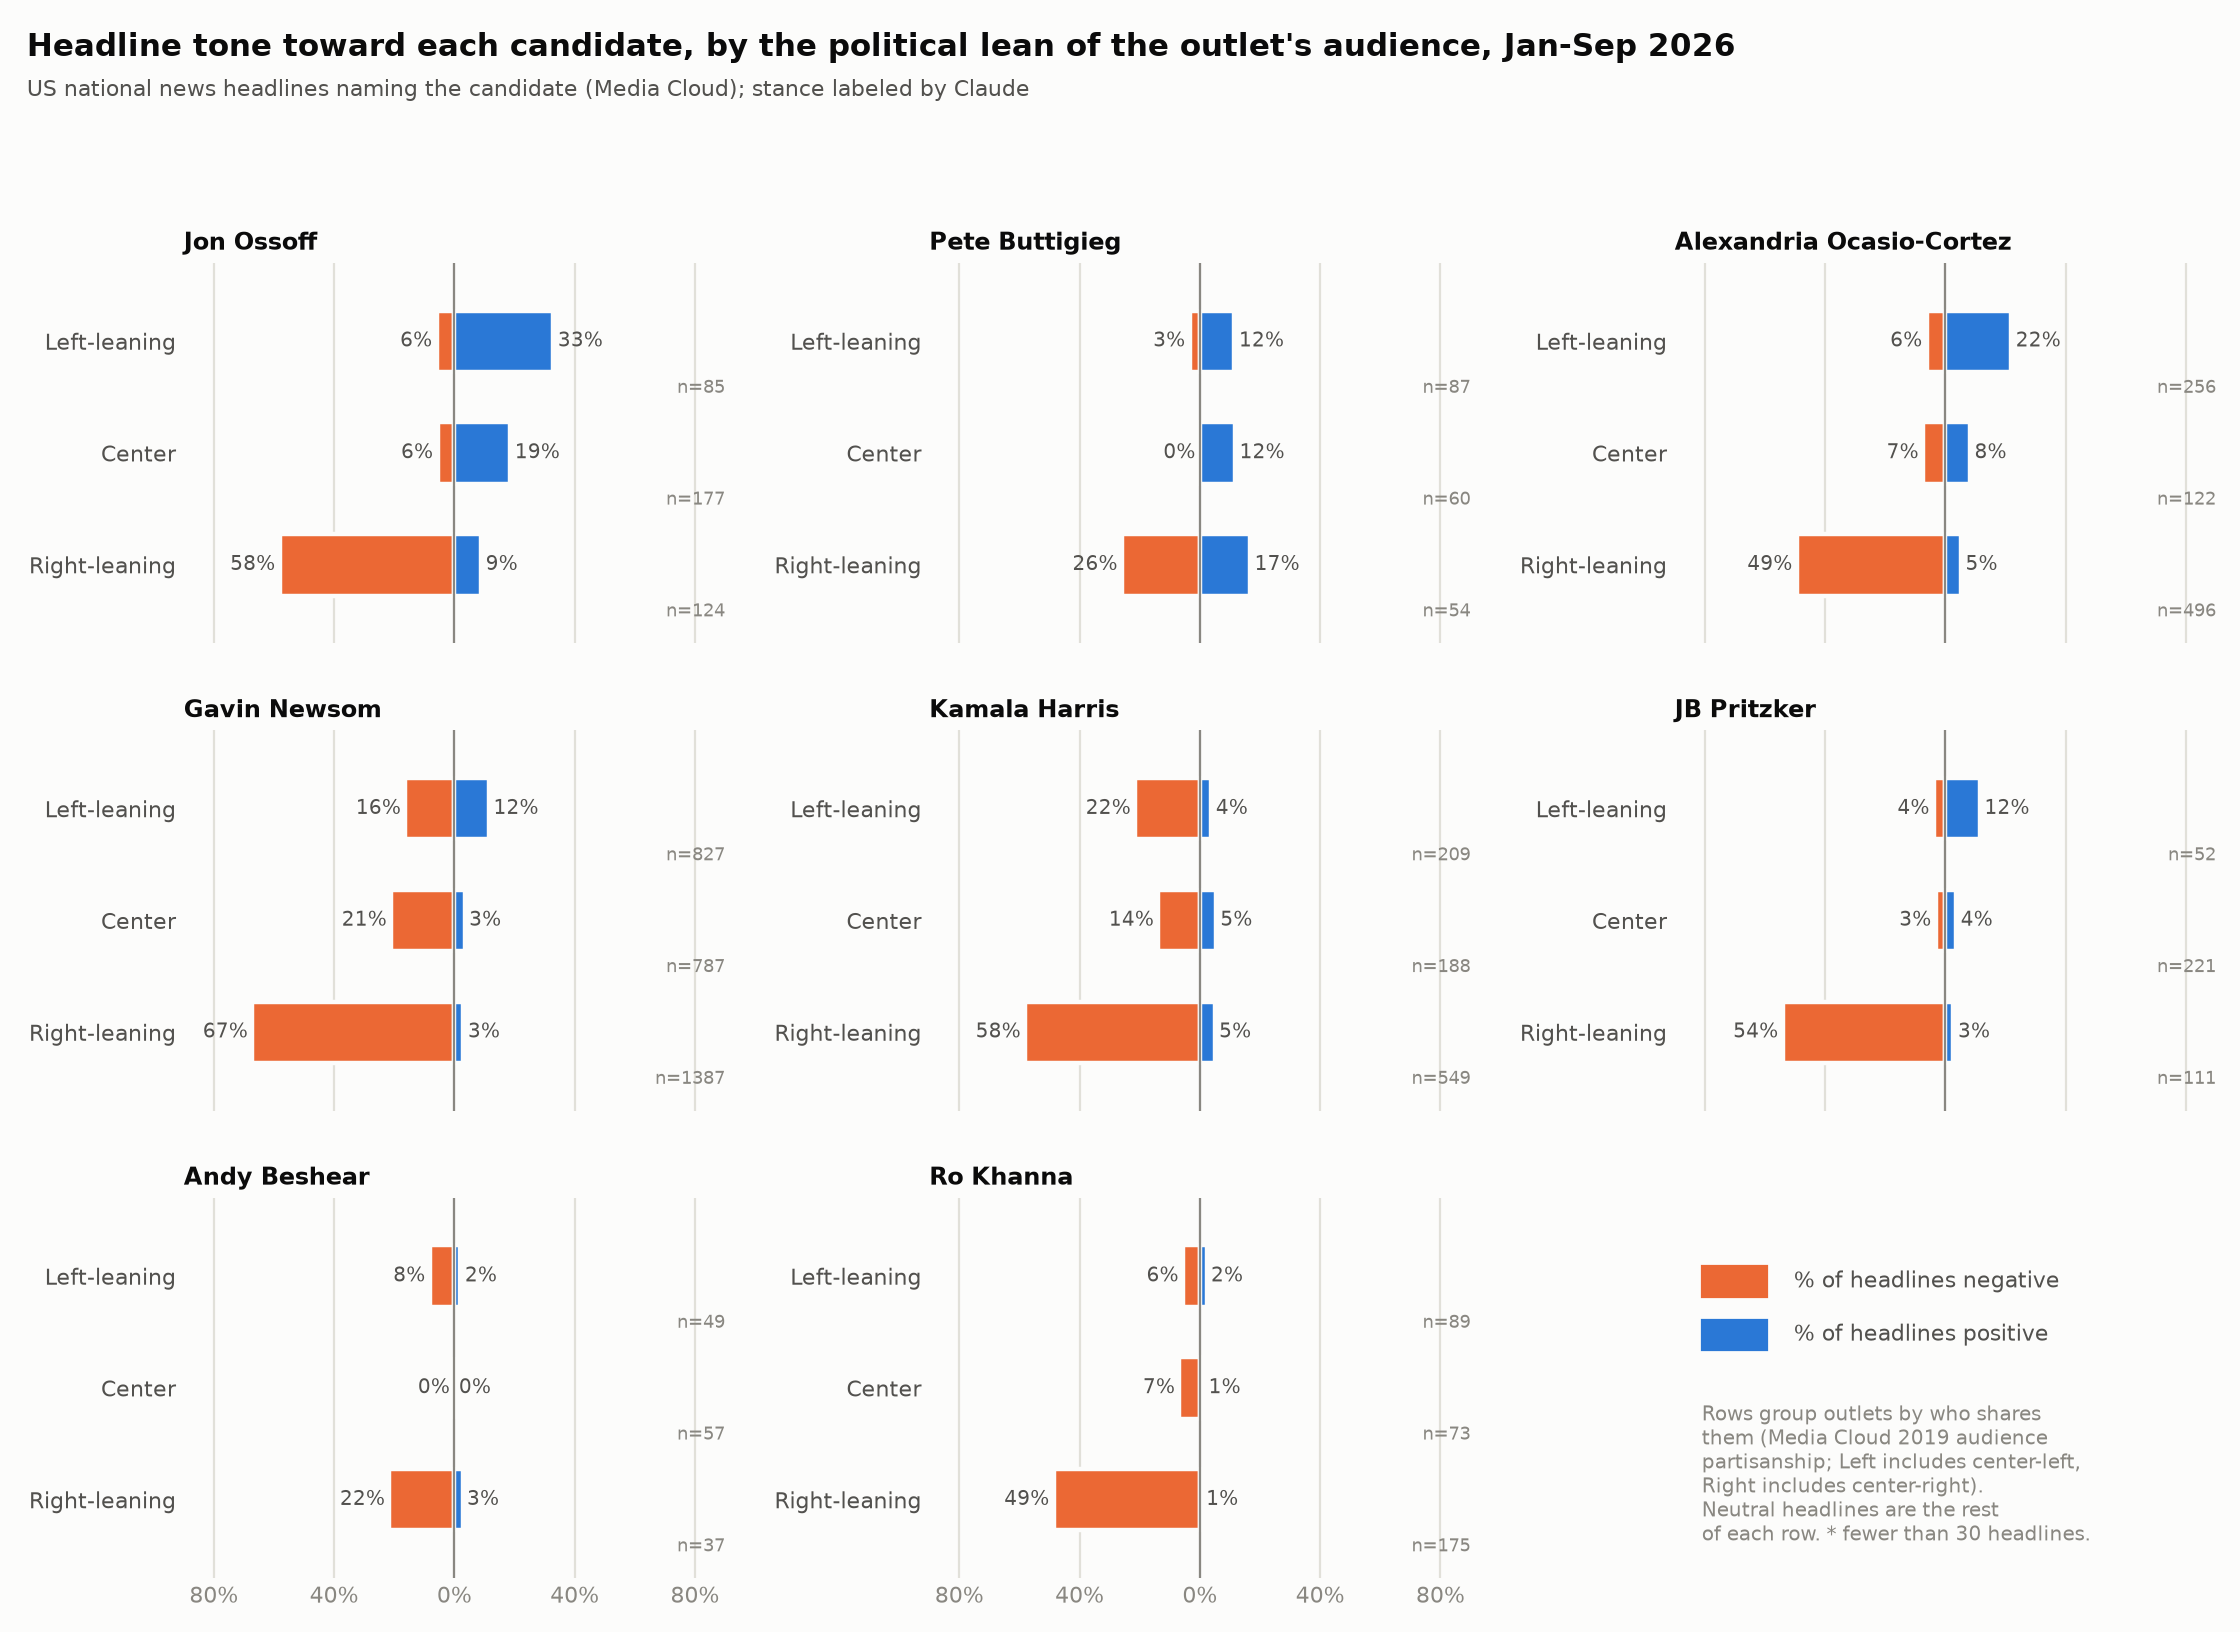
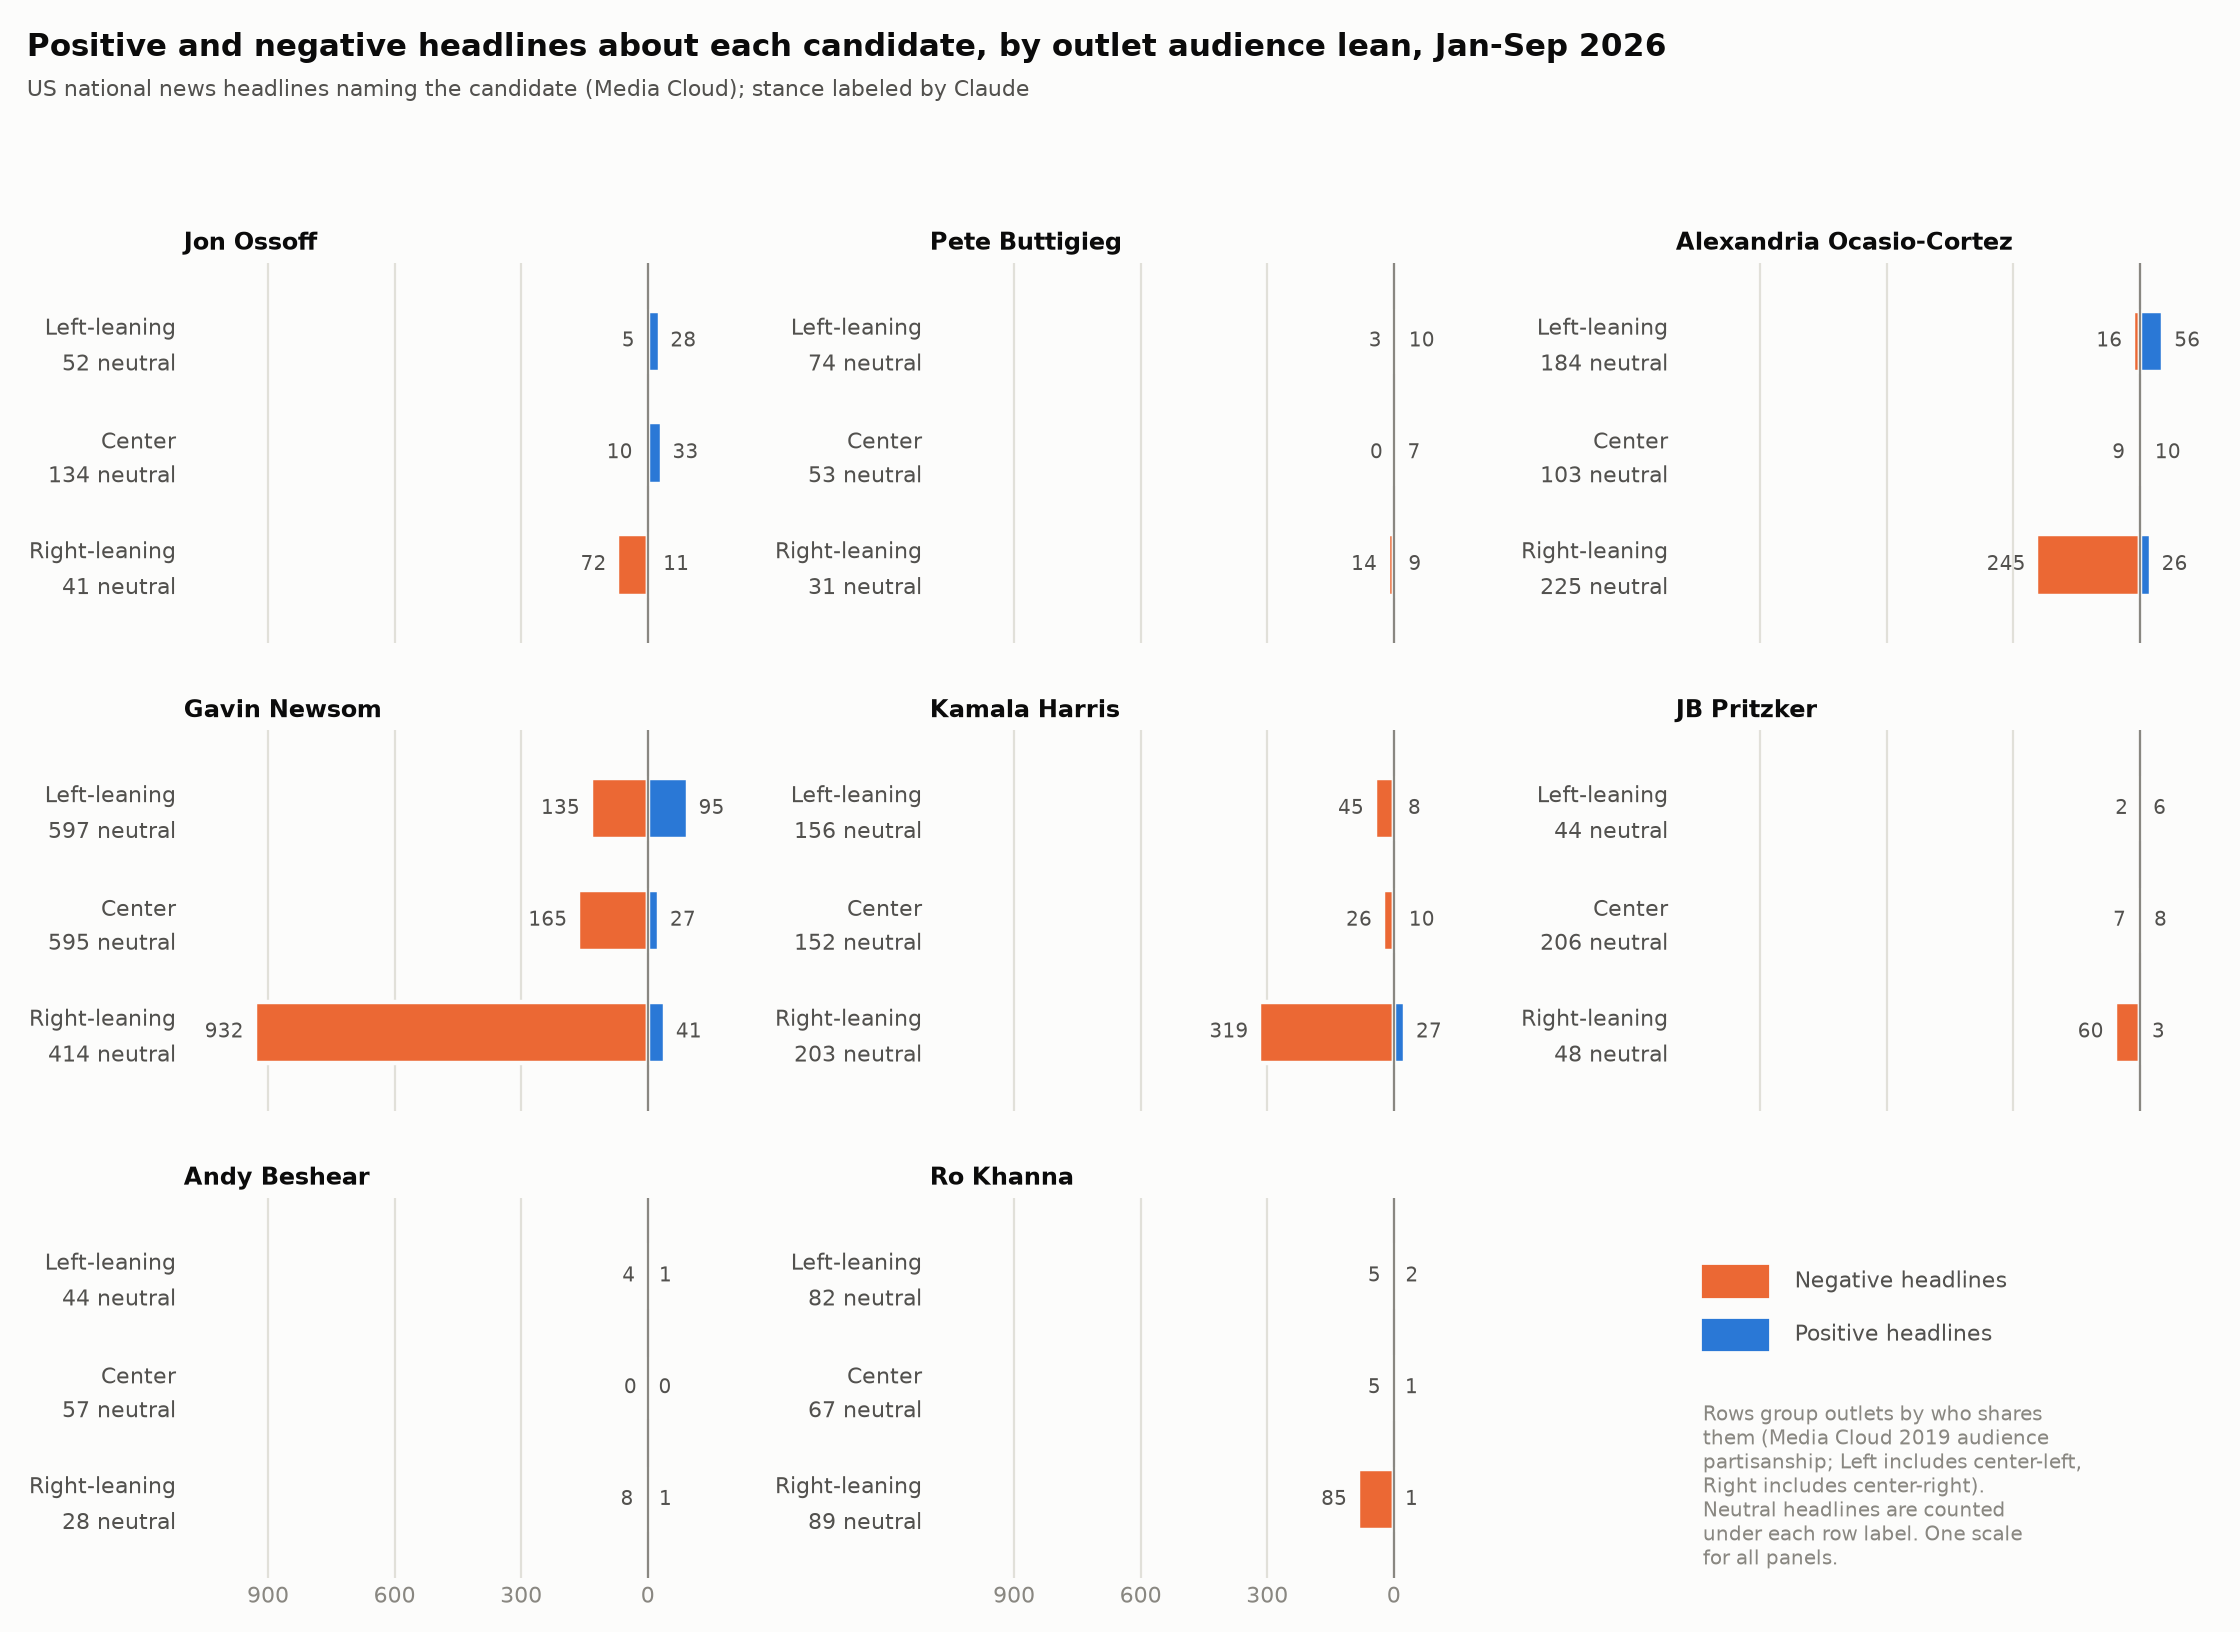
Show headline counts instead of percentages in the by-lean chart
Bars are positive and negative headline counts on one shared,
asymmetric scale; neutral counts sit under each row label.

Claude-Session: https://claude.ai/code/session_019hpmnRh6Ny9Qtcw3yeXWmH

diff --git a/reddit2028Sentiment/mediacloud_sentiment.py b/reddit2028Sentiment/mediacloud_sentiment.py
@@ -278,9 +278,13 @@ def plot_by_lean(rows):
     names = [n for n in QUERIES if any((n, g) in by for g in groups)]
     names.sort(key=lambda n: -sum(by[(n, g)]["positive"] for g in groups if (n, g) in by)
                / sum(by[(n, g)]["headlines"] for g in groups if (n, g) in by))
-    lim = max(max(r["pct_negative"], r["pct_positive"]) for r in rows)
-    lim = -(-lim // 10) * 10 + 20  # room for the value labels at the bar ends
-    step = 40 if lim > 60 else 20
+    # One shared count scale so bar lengths compare across candidates; every bar is labelled.
+    from matplotlib.ticker import MaxNLocator
+    # Asymmetric limits (negative bars run far longer) but one unit scale for both sides and all panels.
+    left = max(r["negative"] for r in rows) * 1.18
+    right = max(r["positive"] for r in rows) * 1.9
+    lim = left + right
+    ticks = [t for t in MaxNLocator(nbins=5, integer=True).tick_values(-left, right) if -left <= t <= right]
 
     plt.rcParams.update({"font.family": "DejaVu Sans", "font.size": 10})
     nrows, ncols = grid_for(len(names))
@@ -290,12 +294,11 @@ def plot_by_lean(rows):
         for side in ("top", "right", "left", "bottom"):
             ax.spines[side].set_visible(False)
         ax.tick_params(colors=muted, length=0)
-        ax.set_xlim(-lim, lim)
+        ax.set_xlim(-left, right)
         ax.grid(axis="x", color=grid, linewidth=1)
         ax.set_axisbelow(True)
-        ticks = [t for t in range(-step * int(lim // step), int(lim) + 1, step)]
         ax.set_xticks(ticks)
-        ax.set_xticklabels([f"{abs(t)}%" for t in ticks])
+        ax.set_xticklabels([f"{abs(int(t)):,}" for t in ticks])
 
     for ax, name in zip(axes.flat, names):
         ax.axvline(0, color=muted, linewidth=1)
@@ -304,15 +307,15 @@ def plot_by_lean(rows):
             r = by.get((name, g))
             if not r:
                 continue
-            ax.barh(y, -r["pct_negative"], height=0.55, color=neg_c, edgecolor=surface, linewidth=2)
-            ax.barh(y, r["pct_positive"], height=0.55, color=pos_c, edgecolor=surface, linewidth=2)
-            ax.text(-r["pct_negative"] - 1.5, y, f"{r['pct_negative']:.0f}%", ha="right", va="center", color=ink2, fontsize=9)
-            ax.text(r["pct_positive"] + 1.5, y, f"{r['pct_positive']:.0f}%", ha="left", va="center", color=ink2, fontsize=9)
-            hollow = r["headlines"] < MIN_N
-            ax.text(lim, y - 0.42, f"n={r['headlines']}" + ("*" if hollow else ""), ha="right", va="center",
-                    color=muted, fontsize=8)
+            pad = lim * 0.02
+            ax.barh(y, -r["negative"], height=0.55, color=neg_c, edgecolor=surface, linewidth=2)
+            ax.barh(y, r["positive"], height=0.55, color=pos_c, edgecolor=surface, linewidth=2)
+            ax.text(-r["negative"] - pad, y, f"{r['negative']:,}", ha="right", va="center", color=ink2, fontsize=9)
+            ax.text(r["positive"] + pad, y, f"{r['positive']:,}", ha="left", va="center", color=ink2, fontsize=9)
         ax.set_yticks(ys)
-        ax.set_yticklabels([f"{g}-leaning" if g != "Center" else "Center" for g in groups], color=ink2)
+        ax.set_yticklabels([(f"{g}-leaning" if g != "Center" else "Center")
+                            + (f"\n{by[(name, g)]['neutral']:,} neutral" if (name, g) in by else "")
+                            for g in groups], color=ink2, linespacing=1.5)
         ax.set_ylim(-0.7, len(groups) - 0.3)
         ax.set_title(name, loc="left", color=ink, fontsize=11, fontweight="bold")
 
@@ -320,15 +323,15 @@ def plot_by_lean(rows):
         ax.axis("off")
     key = axes.flat[len(names)]
     if key is not None:
-        for y, (c, label) in zip((0.78, 0.64), ((neg_c, "% of headlines negative"), (pos_c, "% of headlines positive"))):
+        for y, (c, label) in zip((0.78, 0.64), ((neg_c, "Negative headlines"), (pos_c, "Positive headlines"))):
             key.add_patch(plt.Rectangle((0.05, y - 0.04), 0.12, 0.08, color=c, transform=key.transAxes))
             key.text(0.22, y, label, va="center", color=ink2, transform=key.transAxes)
         key.text(0.05, 0.46, "Rows group outlets by who shares\nthem (Media Cloud 2019 audience\npartisanship; "
-                 "Left includes center-left,\nRight includes center-right).\nNeutral headlines are the rest\n"
-                 f"of each row. * fewer than {MIN_N} headlines.",
+                 "Left includes center-left,\nRight includes center-right).\nNeutral headlines are counted\n"
+                 "under each row label. One scale\nfor all panels.",
                  va="top", color=muted, fontsize=9, transform=key.transAxes)
 
-    fig.suptitle("Headline tone toward each candidate, by the political lean of the outlet's audience, Jan-Sep 2026",
+    fig.suptitle("Positive and negative headlines about each candidate, by outlet audience lean, Jan-Sep 2026",
                  x=0.012, y=1 - 0.2 / fig.get_figheight(), ha="left", va="top", color=ink, fontsize=14, fontweight="bold")
     fig.text(0.012, 1 - 0.6 / fig.get_figheight(), "US national news headlines naming the candidate (Media Cloud); stance labeled by Claude",
              color=ink2, fontsize=10)
